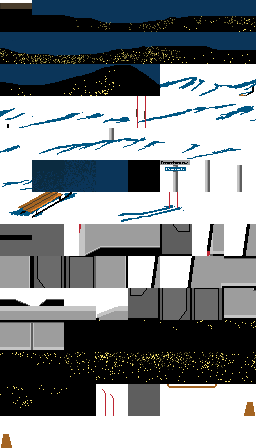
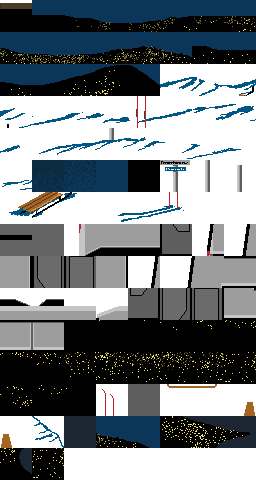
map and documentation updates

diff --git a/README.md b/README.md
@@ -8,6 +8,22 @@ A Walk through the city.
 ### Options
 - ```--release``` Creates a zip archive from the build and adds to Docker web server image
 
+## Development Mode
+- To utilize the repl to reload code after changes, do the following:
+  - ```lein repl```
+- In the repl, load the initial game state:
+  - ```clojure
+       (gsm/init-gsm)
+    ```
+- Start the window:
+  - ```clojure
+        (engine/start-window config/WINDOW-TITLE config/WINDOW-WIDTH
+          config/WINDOW-HEIGHT config/SCALE-FACTOR config/FRAMERATE)
+    ```
+- To reload code after configuration changes (Note: this applies to map updates rather than code updates):
+  - ```clojure
+       (gsm/init-gsm)
+    ```
 ## About
 
 Copyright © 2018 Jack Hay
